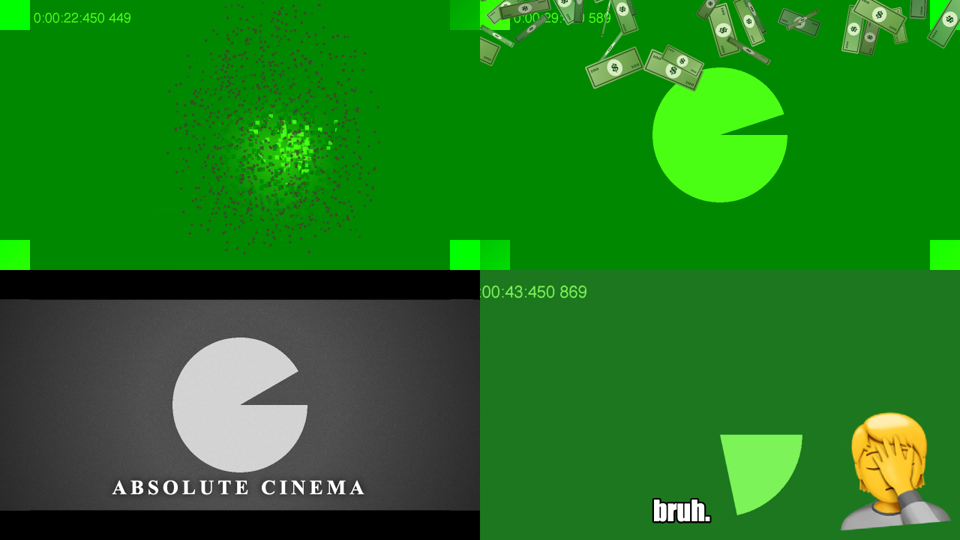
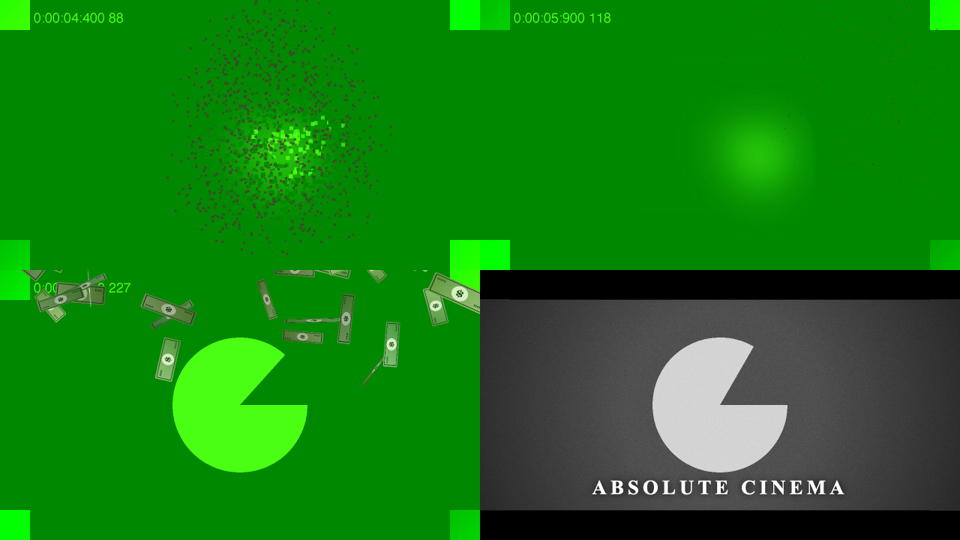
Ship full third-party license texts; drop emoji artwork from demo image

diff --git a/THIRD_PARTY_NOTICES.md b/THIRD_PARTY_NOTICES.md
@@ -9,7 +9,10 @@ This extension bundles the following, unmodified:
 | `models/selfie_segmenter.tflite` | [MediaPipe Selfie Segmenter](https://ai.google.dev/edge/mediapipe/solutions/vision/image_segmenter) | Apache License 2.0 |
 | `models/blaze_face_short_range.tflite` | [MediaPipe BlazeFace (short range)](https://ai.google.dev/edge/mediapipe/solutions/vision/face_detector) | Apache License 2.0 |
 | `vendor/onnx/*` | [ONNX Runtime Web](https://www.npmjs.com/package/onnxruntime-web) 1.23.0 | MIT |
-| `models/migan_pipeline_v2.onnx` | [MI-GAN](https://github.com/Picsart-AI-Research/MI-GAN) by Picsart AI Research, ONNX export from [andraniksargsyan/migan](https://huggingface.co/andraniksargsyan/migan) | MIT, see `models/MIGAN_LICENSE` |
+| `models/migan_pipeline_v2.onnx` | [MI-GAN](https://github.com/Picsart-AI-Research/MI-GAN) by Picsart AI Research, ONNX export from [andraniksargsyan/migan](https://huggingface.co/andraniksargsyan/migan) | MIT |
 
-MediaPipe is copyright The MediaPipe Authors, licensed under the Apache License, Version 2.0:
-https://www.apache.org/licenses/LICENSE-2.0
+Full license texts are in [`licenses/`](licenses):
+
+- MediaPipe (copyright The MediaPipe Authors): [`licenses/APACHE-2.0-mediapipe.txt`](licenses/APACHE-2.0-mediapipe.txt)
+- ONNX Runtime (copyright Microsoft Corporation): [`licenses/MIT-onnxruntime.txt`](licenses/MIT-onnxruntime.txt)
+- MI-GAN (copyright Picsart AI Research): [`licenses/MIT-migan.txt`](licenses/MIT-migan.txt)

diff --git a/README.md b/README.md
@@ -11,7 +11,7 @@ A Chrome extension that gives your Google Meet calls a plot. 🫰
 
 No green screen, no editing, no virtual-camera app. The effects are drawn into your camera feed, so everyone in the call sees them live. Everything runs on your machine.
 
-![The four effects, captured from Chrome's test camera](docs/effects.png)
+![Dust, cash rain and absolute cinema on Chrome's test camera](docs/effects.png)
 
 ## Install
 
